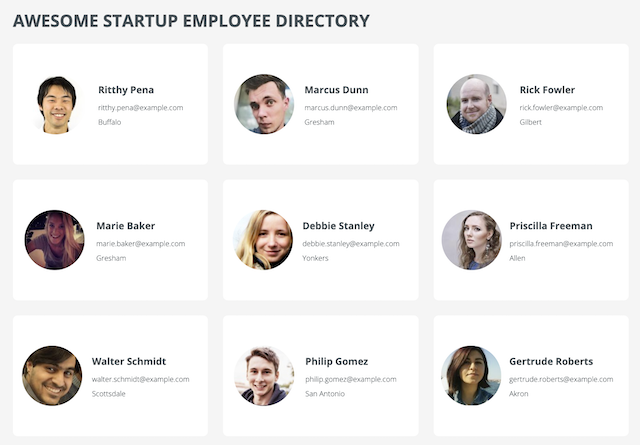
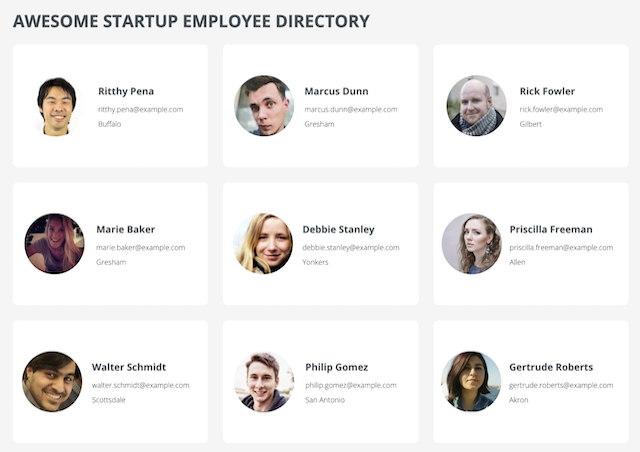
project photo resize

diff --git a/index.html b/index.html
@@ -47,7 +47,7 @@
   <!-- INTRO -->
 <main>
   <div class="container p-3 d-flex" id="intro">
-      <img class="main-photo flex-fill mx-1" src="images/Me.jpg" alt="photo of shea">
+      <img class="main-photo flex-fill mx-1" src="images/me.jpg" alt="photo of shea">
       <div class="align-self-center">
         <h1>Hi there,</h1>
         <h2 class="text-end">i'm Shea</h2>
@@ -78,55 +78,55 @@
      
      <div class="row">
 
-      <div class="col-sm-12 col-md-6 col-lg-4">
-        <div class="card my-3">
+      <div class="col-sm-12 col-md-6 col-lg-4 my-3">
+        <div class="card">
             <img src="images/web-dashboard.png" class="" alt="dashboard">
           <div class='image-overlay'>
             <div class="container text-center">
-              <h3 class="card-title">Web-App Dashboard</h3>
               <p class='card-text'>A user friendly dashboard application with mobile responsiveness. Includes interactive charts and graphs to create a fun user interface.</p>
             </div>
           </div>
         </div>
+        <h3 class="text-center mt-2 project-title">Web Dashboard</h3>
       </div>
 
       
-        <div class="col-sm-12 col-md-6 col-lg-4">
-         <div class="card my-3">
+        <div class="col-sm-12 col-md-6 col-lg-4 my-3">
+         <div class="card">
             <img src="images/style-guide.png" class="" alt="dashboard">
             <div class="image-overlay">
               <div class="container text-center">
-                <h3 class="card-title">Online Style Guide</h3>
                 <p class='card-text'>Used by many developers, the online style guide acts a toolbox for developers. This aides in projects to speed up styling, layout, and development.</p>
               </div>
             </div>
          </div>
+         <h3 class="text-center mt-2 project-title">Online Style Guide</h3>
         </div>
 
 
-        <div class="col-sm-12 col-md-6 col-lg-4">
-          <div class="card my-3">
+        <div class="col-sm-12 col-md-6 col-lg-4 my-3">
+          <div class="card">
             <img src="images/registration-form.png" class="" alt="dashboard">
             <div class="image-overlay">
               <div class="container text-center">
-                <h3 class="card-title">Registration Form</h3>
                 <p class='card-text'>Built a responsive, mobile-friendly registration form using a varity of input types and attributes.</p>
               </div>
             </div>
           </div>
+          <h3 class="text-center mt-2 project-title">Registration Form</h3>
        </div>
 
 
-        <div class="col-sm-12 col-md-6 col-lg-4">
-          <div class='card my-3'>
+        <div class="col-sm-12 col-md-6 col-lg-4 my-3">
+          <div class='card'>
             <img src="images/employee-directory.png" class="" alt="dashboard">
             <div class="image-overlay">
               <div class="container text-center">
-                <h3 class="">Employee Directory</h3>
                 <p class=''>This employee directory interacts with a third party API to grab and display data at random.</p>
               </div>
             </div>
           </div>
+          <h3 class="text-center mt-2 project-title">Employee Directory</h3>
         </div>
 
      </div>

diff --git a/css/styles.css b/css/styles.css
@@ -108,6 +108,11 @@ p {
     opacity:1;
 }
 
+.project-title {
+    font-size: 1.15em;
+    text-transform: uppercase;
+}
+
 
 
 /* ----- Connect ----- */
